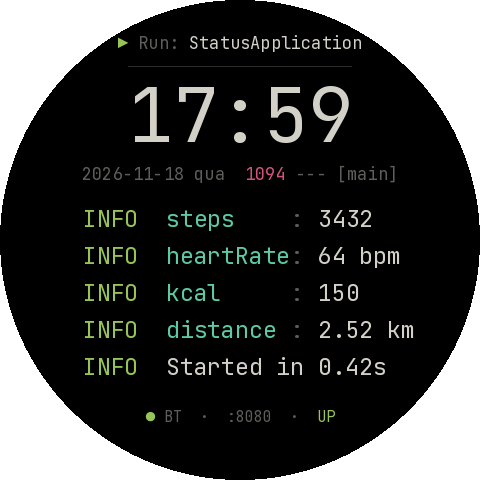
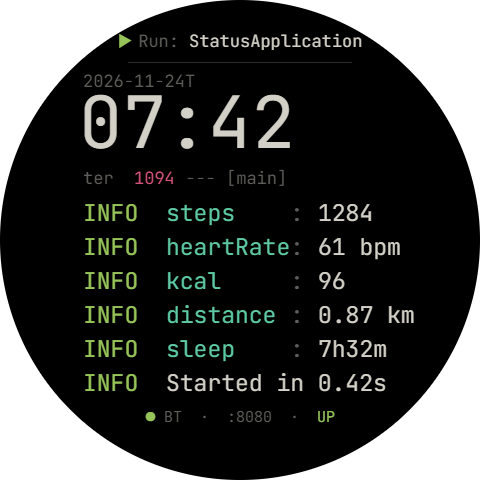
Adiciona horas de sono e hora como timestamp ISO (1.1.0)
Nova linha INFO sleep (WARN null sem registro). A hora vira o timestamp do log, alinhada à esquerda.

diff --git a/watchface/index.js b/watchface/index.js
@@ -3,17 +3,19 @@
  * Amazfit T-Rex 3 (480x480, Zepp OS)
  *
  *        ▶ Run: StatusApplication
- *                 17:59
- *     2026-11-18 qua  1094 --- [main]
+ *   2026-11-18T                    (a hora é o timestamp do log)
+ *   17:59
+ *   qua  1094 --- [main]
  *   INFO  steps    : 3432
  *   INFO  heartRate: 64 bpm        (WARN ... null sem medição)
  *   INFO  kcal     : 150
  *   INFO  distance : 2.52 km
+ *   INFO  sleep    : 7h32m         (WARN ... null sem registro de sono)
  *   INFO  Started in 0.42s         (Goal reached: N ao bater a meta)
  *        ● BT  ·  :8080  ·  UP     (DOWN sem Bluetooth)
  */
 import { createWidget, widget, align, prop, text_style } from '@zos/ui'
-import { Time, Step, HeartRate, Calorie, Distance } from '@zos/sensor'
+import { Time, Step, HeartRate, Calorie, Distance, Sleep } from '@zos/sensor'
 import { connectStatus } from '@zos/ble'
 
 // ---------- tema (cores do console do Spring Boot) ----------
@@ -34,13 +36,22 @@ const FONT = 'fonts/JetBrainsMono-Subset.ttf'
 const ADV = 0.6 // JetBrains Mono: 600/1000 em por caractere
 
 const LOG_X = 83
-const LOG_TOP = 200
+const LOG_TOP = 196
 const LOG_SIZE = 23
-const LOG_H = 37
+const LOG_H = 34
 
 const PID = '1094'
 const DAYS = ['seg', 'ter', 'qua', 'qui', 'sex', 'sáb', 'dom'] // Time.getDay(): 1 = segunda ... 7 = domingo
 const pad = (n) => String(n).padStart(2, '0')
+// minutos de sono → "7h32m"; null quando o relógio não registrou sono
+const sleepText = (min) => (min > 0 ? `${Math.floor(min / 60)}h${pad(min % 60)}m` : null)
+const sleepMinutes = (s) => {
+  try {
+    return (s.getInfo() || {}).totalTime || 0
+  } catch (e) {
+    return 0 // sem permissão ou sem dado
+  }
+}
 
 function text(props) {
   return createWidget(widget.TEXT, {
@@ -113,29 +124,30 @@ WatchFace({
     this.hr = new HeartRate()
     this.cal = new Calorie()
     this.dist = new Distance()
+    this.sleep = new Sleep()
 
     // ---------- cabeçalho ----------
-    new Row('center', 30, 26, 17, [
+    new Row('center', 28, 26, 17, [
       { text: '▶', color: C.info },
       { text: ' Run: ', color: C.dim },
       { text: 'StatusApplication', color: C.value }
     ])
-    createWidget(widget.FILL_RECT, { x: 128, y: 66, w: 224, h: 1, color: C.rule })
+    createWidget(widget.FILL_RECT, { x: 128, y: 62, w: 224, h: 1, color: C.rule })
 
+    // timestamp ISO do log: data pequena em cima, hora grande embaixo, alinhados com o log
+    this.tStamp = text({ x: LOG_X, y: 70, w: 200, h: 22, text: '0000-00-00T', color: C.dim, text_size: 17 })
     this.tTime = text({
-      x: 40,
-      y: 72,
-      w: 400,
-      h: 86,
+      x: LOG_X - 4, // compensa o recuo do glifo em 72px pra alinhar visualmente com o log
+      y: 88,
+      w: 300,
+      h: 78,
       text: '00:00',
       color: C.value,
-      text_size: 75,
-      align_h: align.CENTER_H
+      text_size: 72
     })
 
-    this.lDate = new Row('center', 162, 24, 17, [
-      { text: '0000-00-00 ---', color: C.dim },
-      { text: '  ', color: C.dim },
+    this.lDate = new Row(LOG_X, 166, 24, 17, [
+      { text: '---  ', color: C.dim },
       { text: PID, color: C.pid },
       { text: ' --- [main]', color: C.dim }
     ])
@@ -145,14 +157,15 @@ WatchFace({
     this.lHr = logLine(1, 'heartRate', 'null')
     this.lKcal = logLine(2, 'kcal', '0')
     this.lDist = logLine(3, 'distance', '0.00 km')
-    this.lLast = new Row(LOG_X, LOG_TOP + 4 * LOG_H, LOG_H, LOG_SIZE, [
+    this.lSleep = logLine(4, 'sleep', 'null')
+    this.lLast = new Row(LOG_X, LOG_TOP + 5 * LOG_H, LOG_H, LOG_SIZE, [
       { text: 'INFO', color: C.info },
       { text: '  ', color: C.dim },
       { text: 'Started in 0.42s', color: C.value }
     ])
 
     // ---------- barra de status ----------
-    this.lStatus = new Row('center', 405, 24, 15, [
+    this.lStatus = new Row('center', 404, 24, 15, [
       { text: '●', color: C.off },
       { text: ' BT  ·  :8080  ·  ', color: C.dim },
       { text: 'DOWN', color: C.error }
@@ -168,7 +181,8 @@ WatchFace({
         year = new Date().getFullYear()
       }
       this.tTime.setProperty(prop.MORE, { text: `${pad(t.getHours())}:${pad(t.getMinutes())}` })
-      this.lDate.set(0, `${year}-${pad(t.getMonth())}-${pad(t.getDate())} ${DAYS[t.getDay() - 1] || ''}`)
+      this.tStamp.setProperty(prop.MORE, { text: `${year}-${pad(t.getMonth())}-${pad(t.getDate())}T` })
+      this.lDate.set(0, `${DAYS[t.getDay() - 1] || '---'}  `)
 
       let bt = false
       try {
@@ -204,15 +218,26 @@ WatchFace({
       this.lDist.set(4, `${(meters / 1000).toFixed(2)} km`)
     }
 
+    this.updateSleep = () => {
+      const s = sleepText(sleepMinutes(this.sleep))
+      this.lSleep.set(0, s ? 'INFO' : 'WARN', s ? C.info : C.warn)
+      this.lSleep.set(4, s || 'null')
+    }
+
     this.updateAll = () => {
       this.updateTime()
       this.updateSteps()
       this.updateHr()
       this.updateKcal()
       this.updateDist()
+      this.updateSleep()
     }
 
-    this.time.onPerMinute(this.updateTime)
+    // sono não tem evento de mudança (o sistema recalcula a cada ~30 min): lê a cada minuto
+    this.time.onPerMinute(() => {
+      this.updateTime()
+      this.updateSleep()
+    })
     this.step.onChange(this.updateSteps)
     this.hr.onLastChange(this.updateHr)
     this.cal.onChange(this.updateKcal)

diff --git a/README.md b/README.md
@@ -1,7 +1,7 @@
 # Spring Log — mostrador para Amazfit T-Rex 3
 [🇺🇸 Read in English](#spring-log--watch-face-for-amazfit-t-rex-3)
 
-Mostrador estilo console de log do Spring Boot (Zepp OS, 480x480): hora, data, passos, batimentos, kcal e distância.
+Mostrador estilo console de log do Spring Boot (Zepp OS, 480x480): hora, data, passos, batimentos, kcal, distância e sono.
 
 ![Preview do mostrador](docs/preview.png)
 
@@ -61,6 +61,7 @@ Tudo fica no topo de `watchface/index.js`:
 - Ao bater a meta de passos do relógio, a última linha vira `Goal reached: <meta>`.
 - Barra de status: `● ... UP` verde com o celular conectado por Bluetooth, `DOWN` vermelho desconectado (atualiza a cada minuto e ao acender a tela).
 - Distância vem em metros do sensor e é exibida em km com 2 casas.
+- Sono: total de horas dormidas registradas pelo relógio (`7h32m`). Sem registro, aparece a linha `WARN sleep: null` (amarelo). O sistema recalcula o sono a cada ~30 min, então o mostrador relê a cada minuto e ao acender a tela.
 - Não tem versão AOD (tela sempre ligada) ainda.
 
 Fonte: JetBrains Mono (SIL OFL 1.1), reduzida aos caracteres usados (inclui ▶ e ●).
@@ -70,7 +71,7 @@ Fonte: JetBrains Mono (SIL OFL 1.1), reduzida aos caracteres usados (inclui ▶ 
 # Spring Log — watch face for Amazfit T-Rex 3
 [🇧🇷 Leia em Português](#spring-log--mostrador-para-amazfit-t-rex-3)
 
-Spring Boot log console style watch face (Zepp OS, 480x480): time, date, steps, heart rate, calories and distance.
+Spring Boot log console style watch face (Zepp OS, 480x480): time, date, steps, heart rate, calories, distance and sleep.
 
 ![Watch face preview](docs/preview.png)
 
@@ -130,6 +131,7 @@ Everything is at the top of `watchface/index.js`:
 - When the watch step goal is reached, the last line becomes `Goal reached: <goal>`.
 - Status bar: green `● ... UP` while the phone is connected over Bluetooth, red `DOWN` when disconnected (updates every minute and when the screen wakes up).
 - Distance comes from the sensor in meters and is shown in km with 2 decimals.
+- Sleep: total sleep recorded by the watch (`7h32m`). With no record it shows the line `WARN sleep: null` (yellow). The system recalculates sleep about every 30 min, so the face re-reads it every minute and when the screen wakes up.
 - No AOD (always-on display) version yet.
 
 Font: JetBrains Mono (SIL OFL 1.1), subset to the characters used (includes ▶ and ●).
